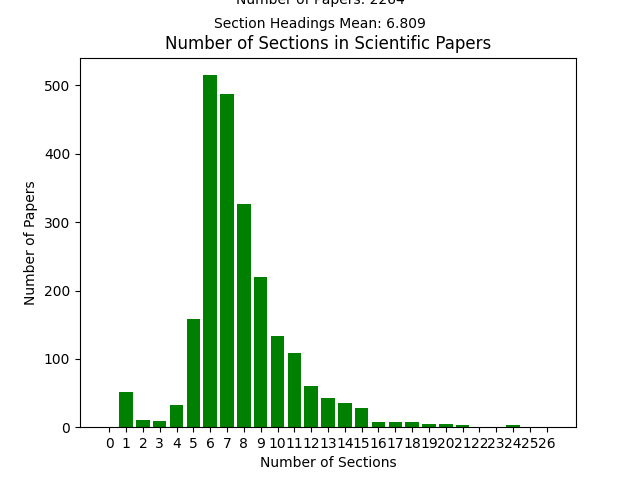
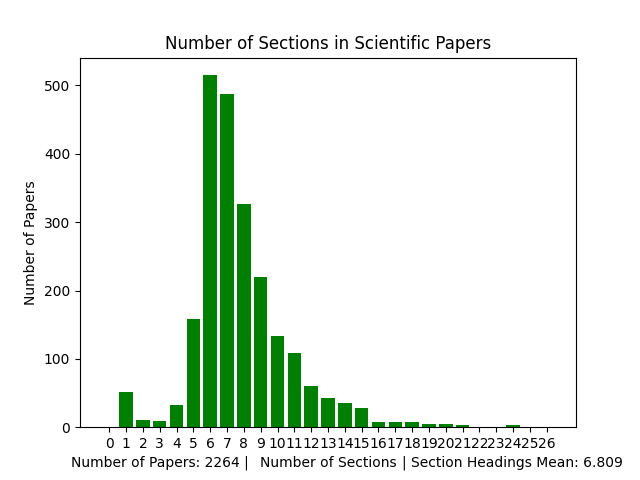
Added Histogram

Changed region(s): [[0.3125, 0.0, 0.6875, 0.0625], [0.625, 0.9375, 0.9688, 1.0], [0.0938, 0.9375, 0.375, 1.0]]

diff --git a/create_statistics.py b/create_statistics.py
@@ -83,8 +83,8 @@ plt.bar(num_of_headings.keys(), num_of_headings.values(), color='g' )
 plt.title("Number of Sections in Scientific Papers")
 plt.xlabel("Number of Sections")
 plt.ylabel("Number of Papers")
-plt.figtext(0.5, 1, f"Number of Papers: {amount_paper}", ha="center", va="center", fontsize=10)
-plt.figtext(0.5, 0.95, f"Section Headings Mean: {round(section_heading_mean, 3)}", ha="center", va="center", fontsize=10)
+plt.figtext(0.25, 0.0359, f"Number of Papers: {amount_paper} |", ha="center", va="center", fontsize=10)
+plt.figtext(0.8, 0.0359, f"| Section Headings Mean: {round(section_heading_mean, 3)}", ha="center", va="center", fontsize=10)
 plt.savefig('CSV/histogram_count_sections.png')
 plt.show()
 
